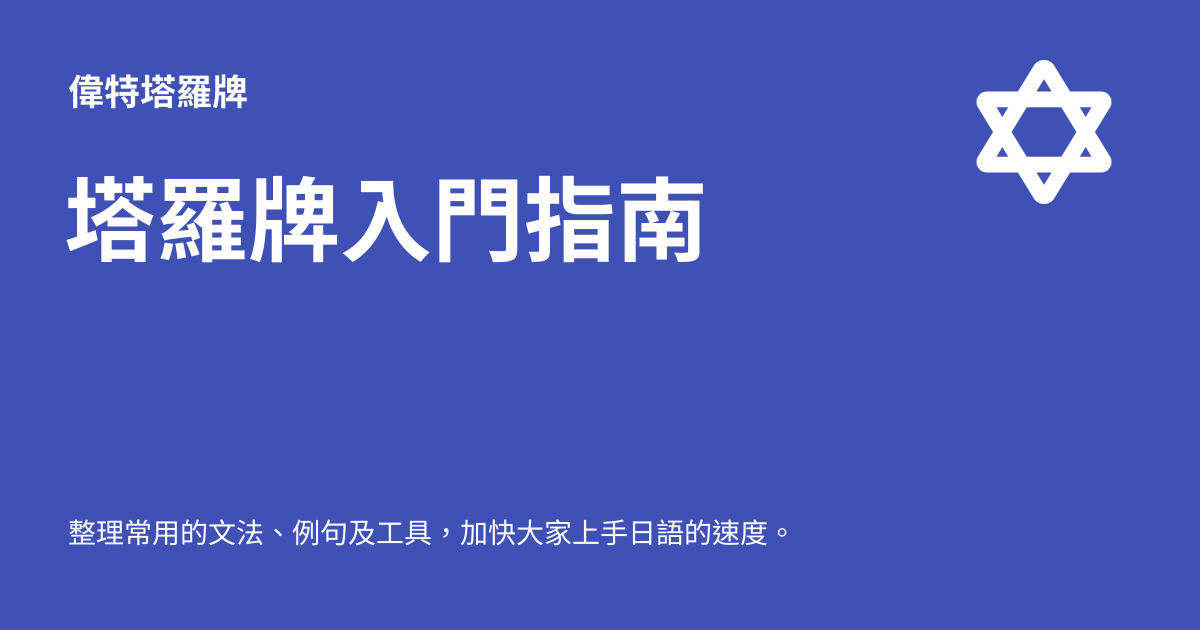
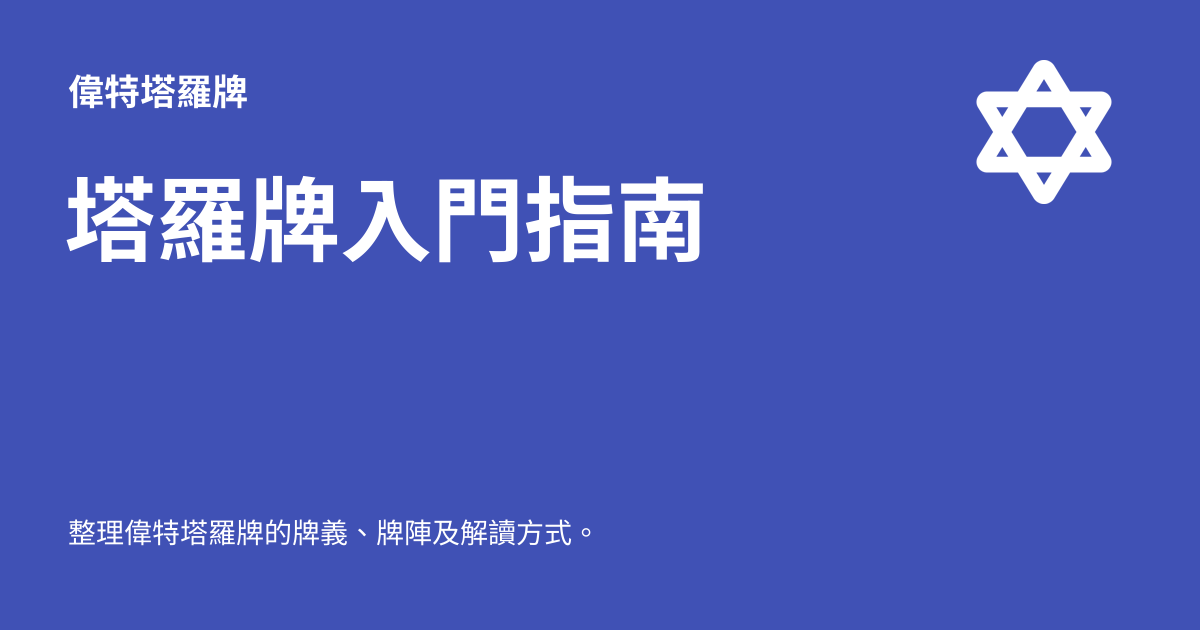
Deployed c33888a with MkDocs version: 1.6.1

Changed region(s): [[0.0925, 0.8143, 0.6475, 0.8746]]

diff --git a/index.html b/index.html
@@ -6,7 +6,7 @@
       <meta charset="utf-8">
       <meta name="viewport" content="width=device-width,initial-scale=1">
       
-        <meta name="description" content="整理常用的文法、例句及工具，加快大家上手日語的速度。">
+        <meta name="description" content="整理偉特塔羅牌的牌義、牌陣及解讀方式。">
       
       
       
@@ -68,7 +68,7 @@
       
         <meta  property="og:title"  content="塔羅牌入門指南" >
       
-        <meta  property="og:description"  content="整理常用的文法、例句及工具，加快大家上手日語的速度。" >
+        <meta  property="og:description"  content="整理偉特塔羅牌的牌義、牌陣及解讀方式。" >
       
         <meta  property="og:image"  content="https://pyfate.github.io/waite/assets/images/social/index.png" >
       
@@ -84,7 +84,7 @@
       
         <meta  name="twitter:title"  content="塔羅牌入門指南" >
       
-        <meta  name="twitter:description"  content="整理常用的文法、例句及工具，加快大家上手日語的速度。" >
+        <meta  name="twitter:description"  content="整理偉特塔羅牌的牌義、牌陣及解讀方式。" >
       
         <meta  name="twitter:image"  content="https://pyfate.github.io/waite/assets/images/social/index.png" >
       
